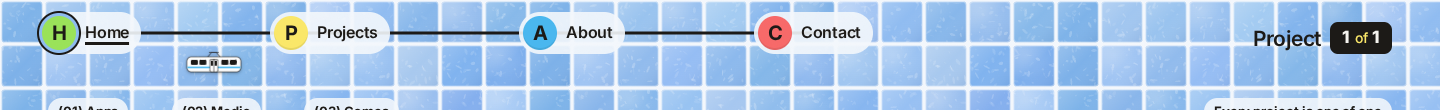
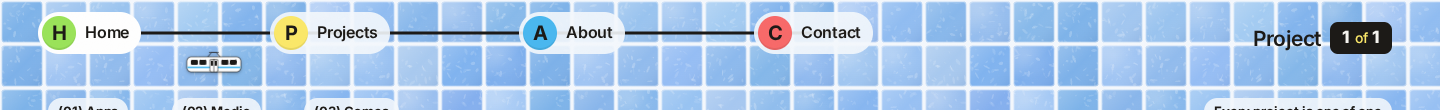
Nav: active station = solid white pill; asset version query

Changed region(s): [[0.0, 0.1091, 0.0938, 0.4909]]

diff --git a/404.html b/404.html
@@ -20,8 +20,8 @@
   <link rel="preconnect" href="https://fonts.googleapis.com">
   <link rel="preconnect" href="https://fonts.gstatic.com" crossorigin>
   <link href="https://fonts.googleapis.com/css2?family=Inter:wght@400;500;600;700;800&display=swap" rel="stylesheet">
-  <link rel="stylesheet" href="/project-1-of-1/css/styles.css">
-  <meta name="build" content="nav-train-v4">
+  <link rel="stylesheet" href="/project-1-of-1/css/styles.css?v=5">
+  <meta name="build" content="nav-train-v5">
   <script>document.documentElement.classList.add("js");</script>
 </head>
 <body>
@@ -42,7 +42,7 @@
       </ul>
     </nav>
   </header>
-  <script src="/project-1-of-1/js/nav.js"></script>
+  <script src="/project-1-of-1/js/nav.js?v=5"></script>
   <main id="main">
     <section class="hero hero--page" aria-labelledby="page-title">
       <div class="wrap hero-main">
@@ -64,7 +64,7 @@
       </div>
     </div>
   </footer>
-  <script src="/project-1-of-1/js/tiles.js"></script>
-  <script type="module" src="/project-1-of-1/js/main.js"></script>
+  <script src="/project-1-of-1/js/tiles.js?v=5"></script>
+  <script type="module" src="/project-1-of-1/js/main.js?v=5"></script>
 </body>
 </html>

diff --git a/projects/europe-tracker.html b/projects/europe-tracker.html
@@ -20,8 +20,8 @@
   <link rel="preconnect" href="https://fonts.googleapis.com">
   <link rel="preconnect" href="https://fonts.gstatic.com" crossorigin>
   <link href="https://fonts.googleapis.com/css2?family=Inter:wght@400;500;600;700;800&display=swap" rel="stylesheet">
-  <link rel="stylesheet" href="../css/styles.css">
-  <meta name="build" content="nav-train-v4">
+  <link rel="stylesheet" href="../css/styles.css?v=5">
+  <meta name="build" content="nav-train-v5">
   <script>document.documentElement.classList.add("js");</script>
 </head>
 <body>
@@ -42,7 +42,7 @@
       </ul>
     </nav>
   </header>
-  <script src="../js/nav.js"></script>
+  <script src="../js/nav.js?v=5"></script>
   <main id="main" class="lot-page lot-page--coral">
     <section class="hero hero--page" aria-labelledby="page-title">
       <div class="wrap hero-main">
@@ -101,7 +101,7 @@
       </div>
     </div>
   </footer>
-  <script src="../js/tiles.js"></script>
-  <script type="module" src="../js/main.js"></script>
+  <script src="../js/tiles.js?v=5"></script>
+  <script type="module" src="../js/main.js?v=5"></script>
 </body>
 </html>

diff --git a/projects/pixel-game.html b/projects/pixel-game.html
@@ -20,8 +20,8 @@
   <link rel="preconnect" href="https://fonts.googleapis.com">
   <link rel="preconnect" href="https://fonts.gstatic.com" crossorigin>
   <link href="https://fonts.googleapis.com/css2?family=Inter:wght@400;500;600;700;800&display=swap" rel="stylesheet">
-  <link rel="stylesheet" href="../css/styles.css">
-  <meta name="build" content="nav-train-v4">
+  <link rel="stylesheet" href="../css/styles.css?v=5">
+  <meta name="build" content="nav-train-v5">
   <script>document.documentElement.classList.add("js");</script>
 </head>
 <body>
@@ -42,7 +42,7 @@
       </ul>
     </nav>
   </header>
-  <script src="../js/nav.js"></script>
+  <script src="../js/nav.js?v=5"></script>
   <main id="main" class="lot-page lot-page--lime">
     <section class="hero hero--page" aria-labelledby="page-title">
       <div class="wrap hero-main">
@@ -101,7 +101,7 @@
       </div>
     </div>
   </footer>
-  <script src="../js/tiles.js"></script>
-  <script type="module" src="../js/main.js"></script>
+  <script src="../js/tiles.js?v=5"></script>
+  <script type="module" src="../js/main.js?v=5"></script>
 </body>
 </html>

diff --git a/projects/morning-news.html b/projects/morning-news.html
@@ -20,8 +20,8 @@
   <link rel="preconnect" href="https://fonts.googleapis.com">
   <link rel="preconnect" href="https://fonts.gstatic.com" crossorigin>
   <link href="https://fonts.googleapis.com/css2?family=Inter:wght@400;500;600;700;800&display=swap" rel="stylesheet">
-  <link rel="stylesheet" href="../css/styles.css">
-  <meta name="build" content="nav-train-v4">
+  <link rel="stylesheet" href="../css/styles.css?v=5">
+  <meta name="build" content="nav-train-v5">
   <script>document.documentElement.classList.add("js");</script>
 </head>
 <body>
@@ -42,7 +42,7 @@
       </ul>
     </nav>
   </header>
-  <script src="../js/nav.js"></script>
+  <script src="../js/nav.js?v=5"></script>
   <main id="main" class="lot-page lot-page--sky">
     <section class="hero hero--page" aria-labelledby="page-title">
       <div class="wrap hero-main">
@@ -101,7 +101,7 @@
       </div>
     </div>
   </footer>
-  <script src="../js/tiles.js"></script>
-  <script type="module" src="../js/main.js"></script>
+  <script src="../js/tiles.js?v=5"></script>
+  <script type="module" src="../js/main.js?v=5"></script>
 </body>
 </html>

diff --git a/index.html b/index.html
@@ -20,8 +20,8 @@
   <link rel="preconnect" href="https://fonts.googleapis.com">
   <link rel="preconnect" href="https://fonts.gstatic.com" crossorigin>
   <link href="https://fonts.googleapis.com/css2?family=Inter:wght@400;500;600;700;800&display=swap" rel="stylesheet">
-  <link rel="stylesheet" href="css/styles.css">
-  <meta name="build" content="nav-train-v4">
+  <link rel="stylesheet" href="css/styles.css?v=5">
+  <meta name="build" content="nav-train-v5">
   <script>document.documentElement.classList.add("js");</script>
 </head>
 <body>
@@ -42,7 +42,7 @@
       </ul>
     </nav>
   </header>
-  <script src="js/nav.js"></script>
+  <script src="js/nav.js?v=5"></script>
   <main id="main">
     <section class="hero hero--home" aria-labelledby="hero-title">
       <div class="wrap hero-top" aria-hidden="true">
@@ -143,7 +143,7 @@
       </div>
     </div>
   </footer>
-  <script src="js/tiles.js"></script>
-  <script type="module" src="js/main.js"></script>
+  <script src="js/tiles.js?v=5"></script>
+  <script type="module" src="js/main.js?v=5"></script>
 </body>
 </html>

diff --git a/projects.html b/projects.html
@@ -20,8 +20,8 @@
   <link rel="preconnect" href="https://fonts.googleapis.com">
   <link rel="preconnect" href="https://fonts.gstatic.com" crossorigin>
   <link href="https://fonts.googleapis.com/css2?family=Inter:wght@400;500;600;700;800&display=swap" rel="stylesheet">
-  <link rel="stylesheet" href="css/styles.css">
-  <meta name="build" content="nav-train-v4">
+  <link rel="stylesheet" href="css/styles.css?v=5">
+  <meta name="build" content="nav-train-v5">
   <script>document.documentElement.classList.add("js");</script>
 </head>
 <body>
@@ -42,7 +42,7 @@
       </ul>
     </nav>
   </header>
-  <script src="js/nav.js"></script>
+  <script src="js/nav.js?v=5"></script>
   <main id="main">
     <section class="hero hero--page" aria-labelledby="page-title">
       <div class="wrap hero-main">
@@ -104,7 +104,7 @@
       </div>
     </div>
   </footer>
-  <script src="js/tiles.js"></script>
-  <script type="module" src="js/main.js"></script>
+  <script src="js/tiles.js?v=5"></script>
+  <script type="module" src="js/main.js?v=5"></script>
 </body>
 </html>

diff --git a/about.html b/about.html
@@ -20,8 +20,8 @@
   <link rel="preconnect" href="https://fonts.googleapis.com">
   <link rel="preconnect" href="https://fonts.gstatic.com" crossorigin>
   <link href="https://fonts.googleapis.com/css2?family=Inter:wght@400;500;600;700;800&display=swap" rel="stylesheet">
-  <link rel="stylesheet" href="css/styles.css">
-  <meta name="build" content="nav-train-v4">
+  <link rel="stylesheet" href="css/styles.css?v=5">
+  <meta name="build" content="nav-train-v5">
   <script>document.documentElement.classList.add("js");</script>
 </head>
 <body>
@@ -42,7 +42,7 @@
       </ul>
     </nav>
   </header>
-  <script src="js/nav.js"></script>
+  <script src="js/nav.js?v=5"></script>
   <main id="main">
     <section class="hero hero--page" aria-labelledby="page-title">
       <div class="wrap hero-main">
@@ -91,7 +91,7 @@
       </div>
     </div>
   </footer>
-  <script src="js/tiles.js"></script>
-  <script type="module" src="js/main.js"></script>
+  <script src="js/tiles.js?v=5"></script>
+  <script type="module" src="js/main.js?v=5"></script>
 </body>
 </html>

diff --git a/contact.html b/contact.html
@@ -20,8 +20,8 @@
   <link rel="preconnect" href="https://fonts.googleapis.com">
   <link rel="preconnect" href="https://fonts.gstatic.com" crossorigin>
   <link href="https://fonts.googleapis.com/css2?family=Inter:wght@400;500;600;700;800&display=swap" rel="stylesheet">
-  <link rel="stylesheet" href="css/styles.css">
-  <meta name="build" content="nav-train-v4">
+  <link rel="stylesheet" href="css/styles.css?v=5">
+  <meta name="build" content="nav-train-v5">
   <script>document.documentElement.classList.add("js");</script>
 </head>
 <body>
@@ -42,7 +42,7 @@
       </ul>
     </nav>
   </header>
-  <script src="js/nav.js"></script>
+  <script src="js/nav.js?v=5"></script>
   <main id="main">
     <section class="hero hero--page" aria-labelledby="page-title">
       <div class="wrap hero-main">
@@ -86,7 +86,7 @@
       </div>
     </div>
   </footer>
-  <script src="js/tiles.js"></script>
-  <script type="module" src="js/main.js"></script>
+  <script src="js/tiles.js?v=5"></script>
+  <script type="module" src="js/main.js?v=5"></script>
 </body>
 </html>

diff --git a/css/styles.css b/css/styles.css
@@ -494,3 +494,15 @@ a.contact-card:hover { transform: translateY(-5px); box-shadow: 0 30px 60px -30p
 @media (max-width: 760px) {
   .route .train-li { display: block; }
 }
+
+/* Active station: solid white pill, no underline, no ring */
+.route a[aria-current="page"] .stop b,
+.site-header .route a[aria-current="page"] .stop b { text-decoration: none !important; }
+.route a[aria-current="page"] .bullet,
+.site-header:not(.is-scrolled) .route a[aria-current="page"] .bullet { box-shadow: inset 0 -2px 0 rgba(0,0,0,.08); }
+.site-header .route a[aria-current="page"], .site-header .route a[aria-current="page"]:hover { background: #fff !important; }
+@media (max-width: 760px) {
+  .route a[aria-current="page"] .bullet,
+  .site-header:not(.is-scrolled) .route a[aria-current="page"] .bullet { box-shadow: 0 0 0 4px var(--paper); }
+  .site-header .route a[aria-current="page"], .site-header .route a[aria-current="page"]:hover { background: transparent !important; }
+}
